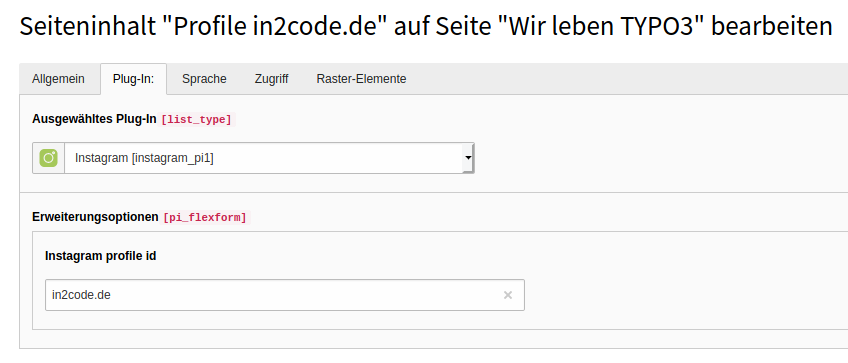
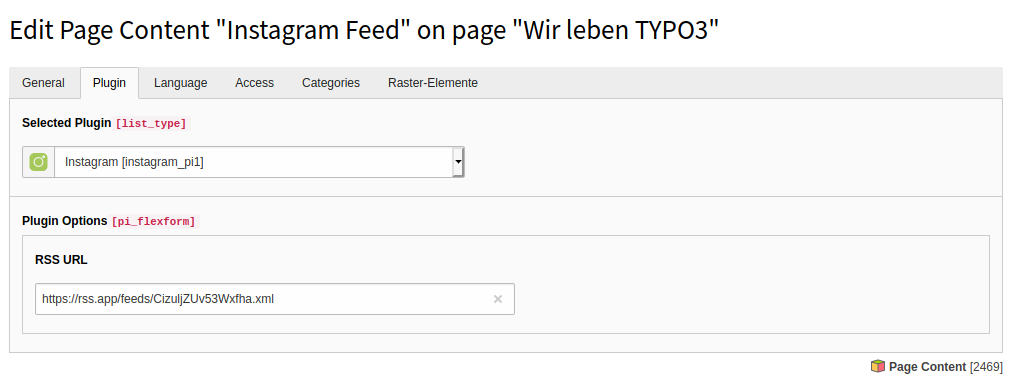
[TASK] Release preperations

diff --git a/readme.md b/readme.md
@@ -3,16 +3,31 @@
 
 ## Introduction
 
-Because of the annoying Instagram API we searched for a simple way to show feed images without using any API.
-Inspired from the JavaScript plugin https://github.com/jsanahuja/InstagramFeed and there functionality we build
-the same with PHP.
+Because of the annoying Instagram API we searched for a simple way to show instagram feed images without using any 
+facebook API.
+
+Since version 3 any rss feed can be used to import instagram images and text from the feed. Images are stored locally
+for best privacy for your visitors.
+
+## What's new in 3.0
+
+In former versions we were inspired from the JavaScript plugin https://github.com/jsanahuja/InstagramFeed and there 
+functionality. So we build a similar function with PHP and the caching framework.
+Even if we used only one access per day to instagram.com, instagram was blocking the server requests after about one
+month.
+So now we have to think different: 
+* How to get the feed without facebook API
+* Without costs
+* With privacy
+
+We decided to use a free RSS-Feed (https://rss.app) to get the instagram images.
 
 
 ## Explanation
 
-Very simple plugin where you can only add your instagram id and that's it. Because it could be that too much requests
-would lead to a ban, entries are cached for 24h via TYPO3 caching framework. A fluid template can be used to change the
-html markup. There are max. 12 images and text from a instagram profile page.
+Very simple plugin where you can only add your rss url and that's it. 
+Feed is cached for 24h via TYPO3 caching framework. A fluid template can be used to change the
+html markup.
 
 
 ## Installation
@@ -21,6 +36,15 @@ html markup. There are max. 12 images and text from a instagram profile page.
 
 
 ## Configuration
+
+### RSS feed generation
+
+Create a RSS-feed with your instagram images. We would recommend to use the free service https://rss.app with only a
+few clicks (see example RSS https://rss.app/feeds/CizuljZUv53Wxfha.xml).
+
+Add this url to your FlexForm configuration
+
+### HTML output modification
 
 Overwrite and modify the HTML output:
 
@@ -37,6 +61,37 @@ plugin {
 ```
 
 
+Example html:
+
+```
+<html xmlns:f="http://typo3.org/ns/TYPO3/CMS/Fluid/ViewHelpers"
+	  xmlns:instagram="http://typo3.org/ns/In2code/Instagram/ViewHelpers"
+	  data-namespace-typo3-fluid="true">
+
+<div class="c-socialwall">
+	<f:for each="{feed.channel.item}" as="item">
+		<div class="c-socialwall__item c-socialwall__item--instagram">
+			<f:link.external uri="{item.link}" title="{feed.channel.title}" target="_blank" rel="noopener">
+
+				<instagram:isLocalImageExisting item="{item}">
+					<f:then>
+						<f:image src="/typo3temp/assets/tx_instagram/{item.guid}.jpg" alt="{item.title}" title="{item.title}" width="500c" height="500c" />
+					</f:then>
+					<f:else>
+						<img src="{item.imageurl}" alt="{item.title}" title="{item.title}" width="500" height="500" />
+					</f:else>
+				</instagram:isLocalImageExisting>
+
+				<p>{image.node.edge_media_to_caption.edges.0.node.text}</p>
+			</f:link.external>
+		</div>
+	</f:for>
+</div>
+
+</html>
+```
+
+
 ## Screenshots
 
 ![Images from the instagram feed](Documentation/Images/frontend.png "Images from the instagram feed")
@@ -48,6 +103,7 @@ plugin {
 
 | Version    | Date       | State      | Description      |
 | ---------- | ---------- | ---------- | ---------------- |
+| 3.0.0 !!!  | 2020-06-05 | Task       | Use RSS-feed now for a workarround that server request are blocked by instagram |
 | 2.0.0      | 2020-05-08 | Task       | Store images locally now to improve privacy of your visitors. Use content element uid for building individual caches now |
 | 1.1.0      | 2020-04-29 | Task       | Open links in new tabs, don't cache the view because of own caching framework usage  |
 | 1.0.0      | 2020-04-29 | Task       | Initial release  |
